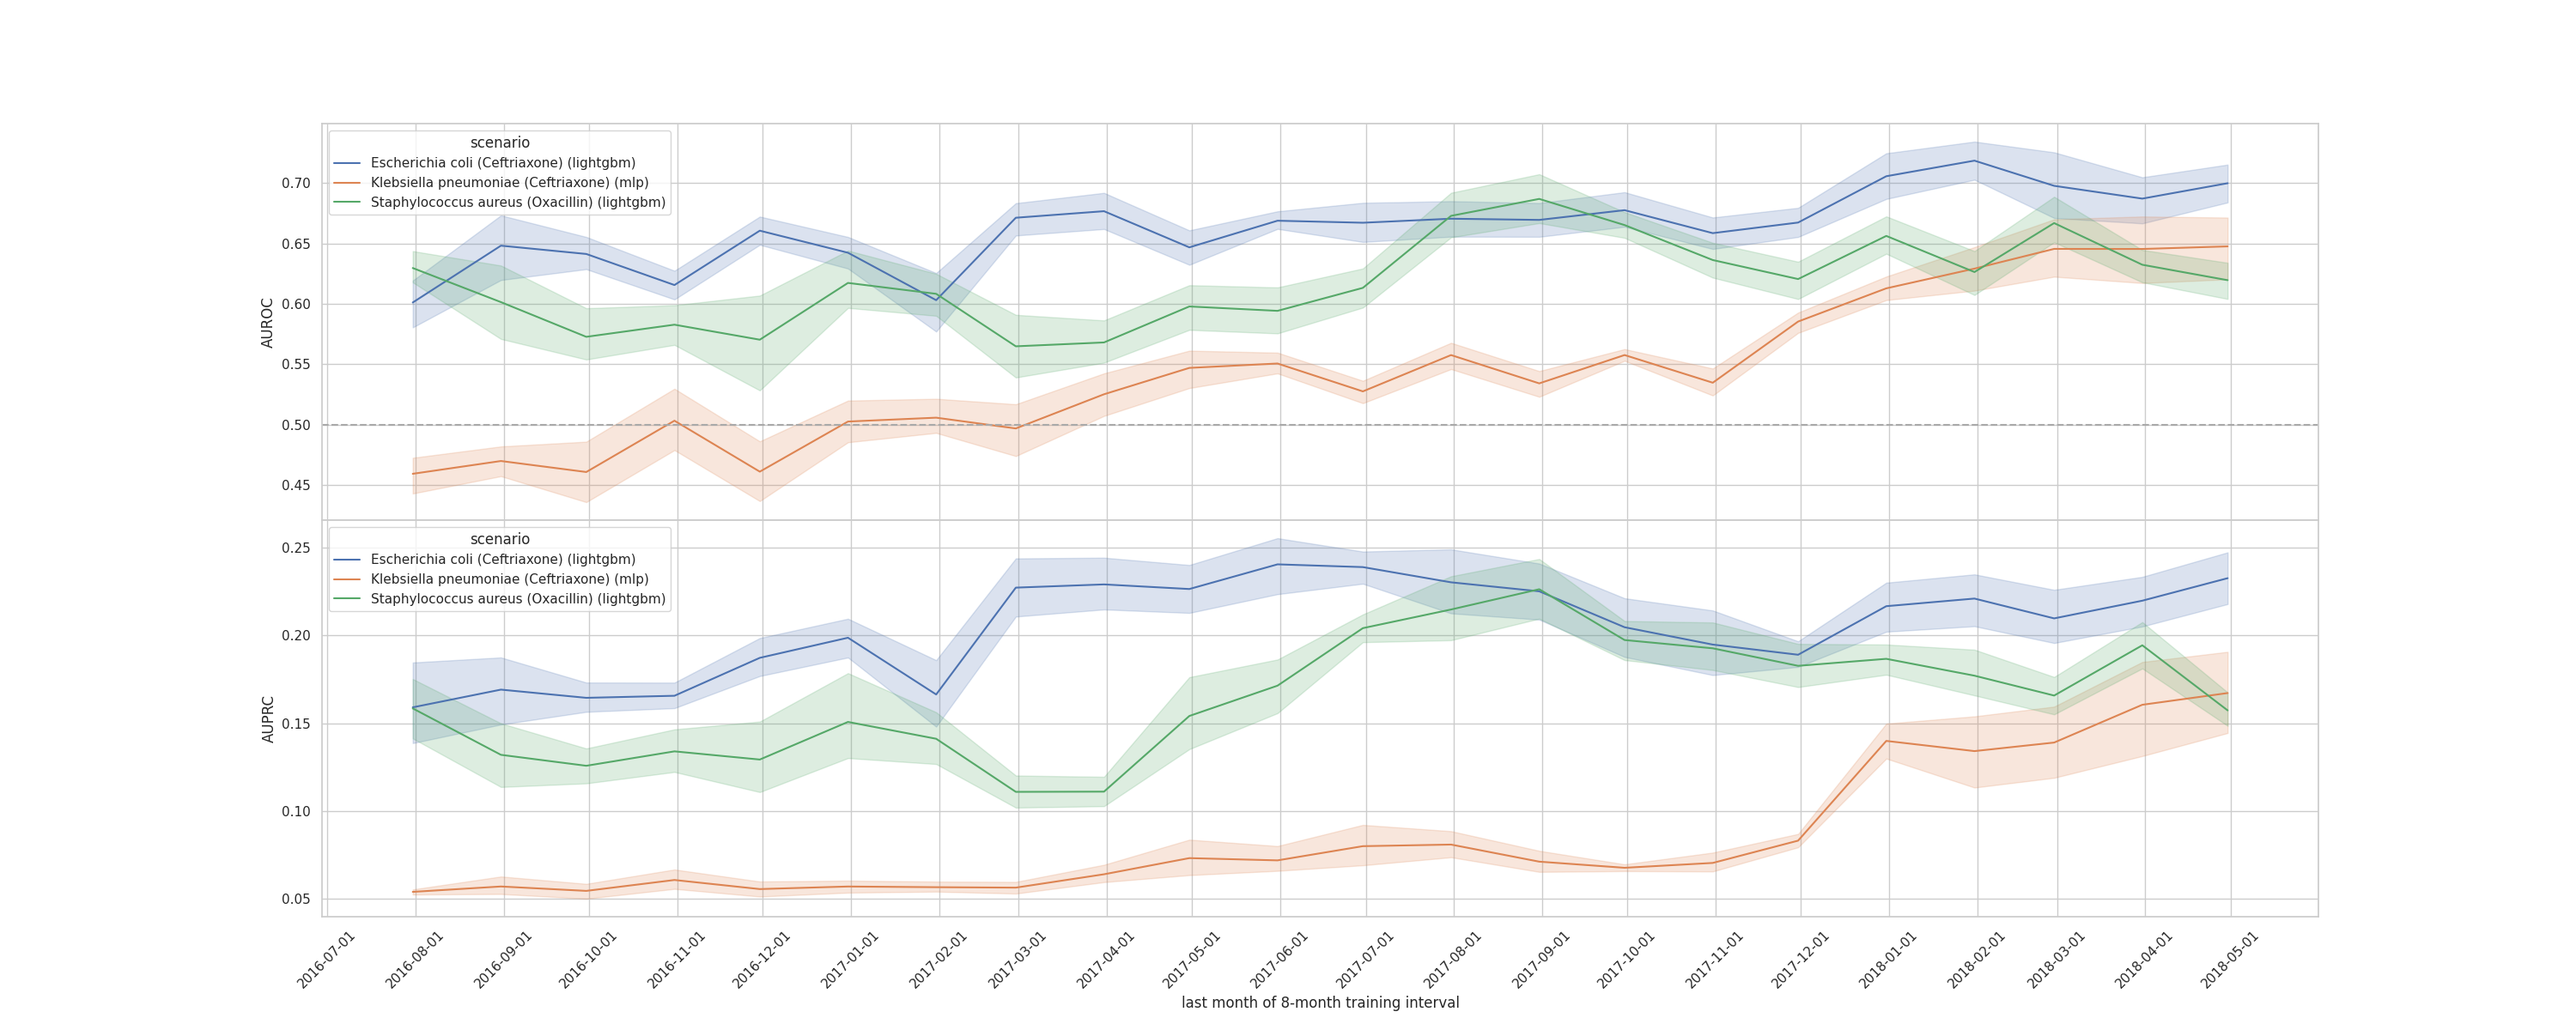
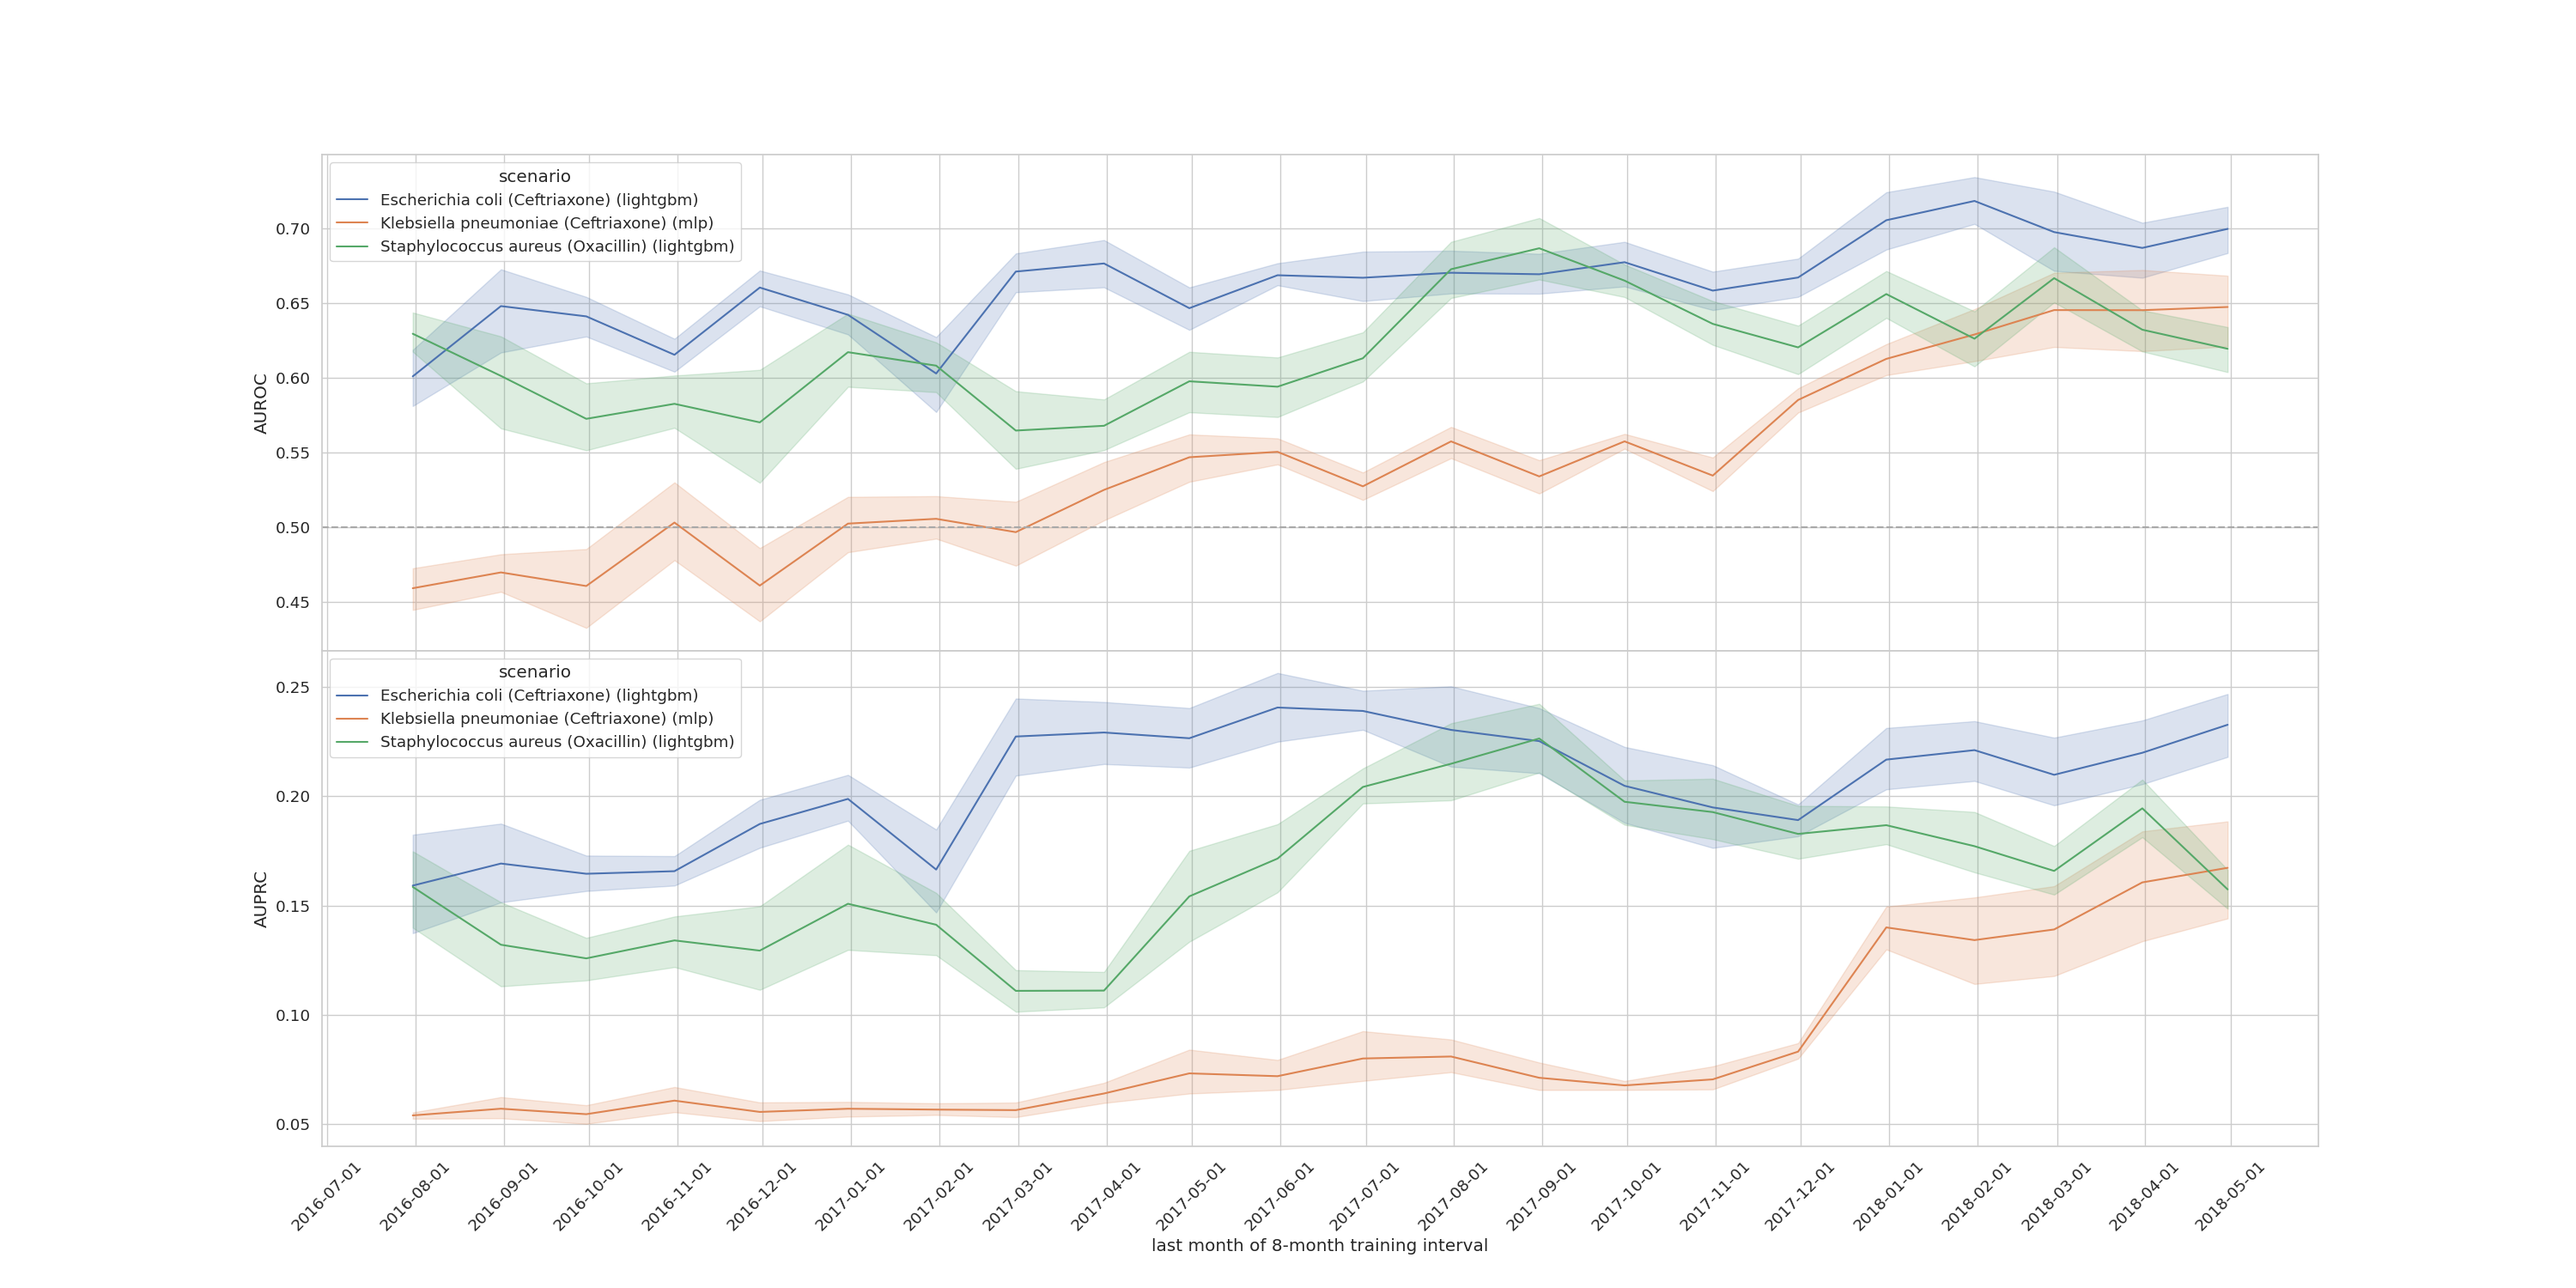
increase fontscale

diff --git a/amr_maldi_ml/plotting/plot_sliding_window_validation_major_scenarios.py b/amr_maldi_ml/plotting/plot_sliding_window_validation_major_scenarios.py
@@ -71,8 +71,8 @@ if __name__ == '__main__':
 
     # Plot lineplot.
     plt.close('all')
-    sns.set(style="whitegrid")
-    fig, ax = plt.subplots(2, 1, figsize=(30,12))
+    sns.set(style="whitegrid", font_scale=1.2)
+    fig, ax = plt.subplots(2, 1, figsize=(30,15))
 
     for i, metric in enumerate(metrics):
         # Some debug output, just so all values can be seen in all their
